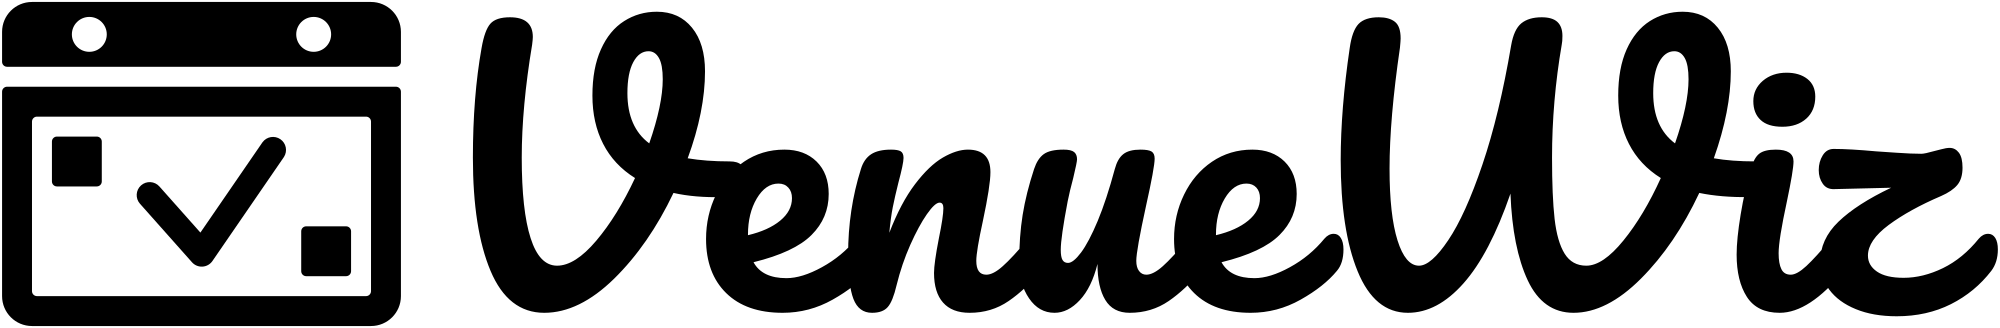
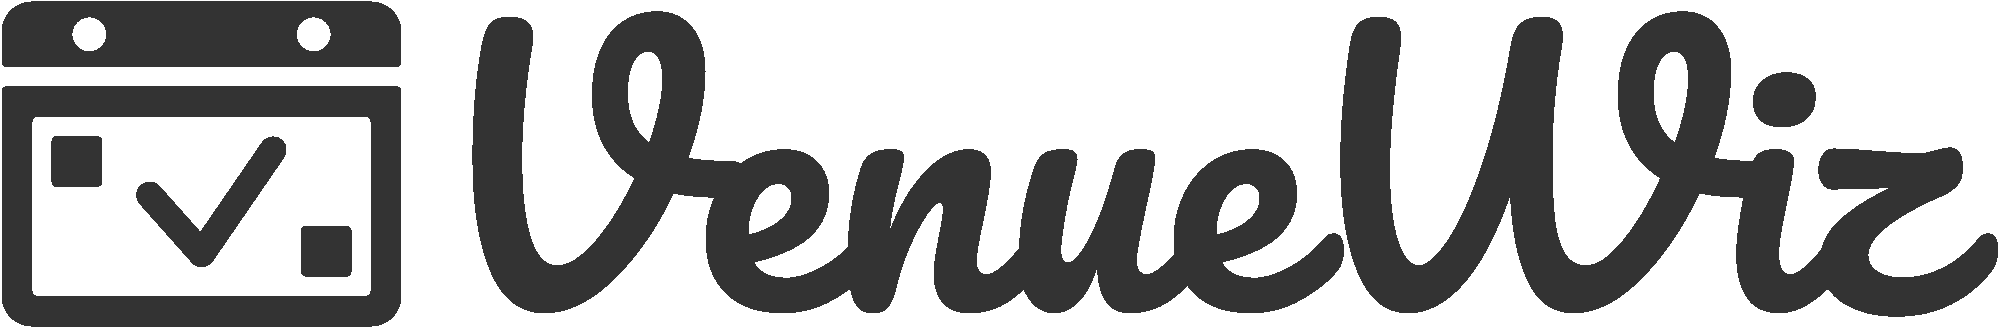
cleaning.. cleaning.. cleaning

diff --git a/client/src/App.css b/client/src/App.css
@@ -16,6 +16,7 @@ body {
   font-family: 'Montserrat', sans-serif;
   font-optical-sizing: auto;
   font-weight: 300;
+  color: #333;
 }
 
 main {
@@ -388,82 +389,16 @@ h1 {
 .venue-info-wrapper-detail button:hover {
   background-color: #3252e0;
 }
-/*.col {
-  margin: 30px;
-}
 
-.card-overlay {
-  background-color: #fdfdff;
-  padding: 20px;
-  border-radius: 10px;
-  box-shadow: 0 4px 8px rgba(0, 0, 0, 0.2);
-  color: #000000;
-  font-family: 'Arimo', sans-serif;
-  margin-left: 10%;
-  margin-right: 10%;
-}
-
-.centered h3 {
-  font-size: 1.5em;
-  margin-bottom: 20px;
-  text-align: center;
-}
-
-.form-wrapper {
-  width: 100%;
-  max-width: 600px;
-}
-
-.input-wrapper {
-  margin-bottom: 15px;
-  display: flex;
-  flex-direction: column;
-}
-
-.input-wrapper label {
-  margin-bottom: 5px;
-  font-size: 1.5em;
-  font-family: 'Arimo', sans-serif;
-  font-weight: bold;
-}
-
-.input-wrapper input,
-.input-wrapper select {
-  padding: 10px;
-  border-radius: 5px;
-  border: 1px solid #ccc;
-  font-size: 1.2em;
-  color: #000;
-}
-
-/*button {
-  background-color: #5271ff;
-  border: none;
-  color: #fff;
-  padding: 10px 20px;
-  border-radius: 5px;
-  font-size: 1em;
-  font-family: 'Arimo', sans-serif;
-  font-weight: bold;
-  margin-top: 10px;
-  margin-left: 50%;
-}
-
-button:disabled {
-  background-color: #aaa;
-}*/
-/*add venue form*/
 .Forms {
   display: flex;
   flex-direction: column;
   justify-content: center;
   align-items: center;
-  /* height: 140vh; */
   font-family: 'Arimo', sans-serif;
   font-optical-sizing: auto;
   font-weight: bold;
   font-style: normal;
-  /* font-size: 10px; */
   color: #5271ff;
   margin: 40px;
 }
@@ -791,18 +726,7 @@ p {
   color: #aab9ff;
 }
 
-.invitation-container {
-  /* display: flex;
-  flex-direction: column;
-  align-items: center;
-  padding-bottom: 20px;
-  height: 100vh; */
-  /* display: flex;
-  justify-content: center;
-  flex-direction: column;
-  align-items: center;
-  text-align: center; */
-}
+
 
 .invitation-container h2 {
   font-family: 'DM Serif Display', serif;
@@ -838,17 +762,16 @@ p {
 }
 
 .event-img-wrapper-detail img {
-  width: 500px; /* Sets the image width to 200px */
-  height: 500px; /* Maintains the aspect ratio */
+  width: 500px; 
+  height: 500px; 
   border-radius: 30px;
-  transition: transform 0.3s ease; /* Smooth transition for hover effect */
+  transition: transform 0.3s ease; 
 }
 .event-card-detail {
   background-color: #fcfcfc00;
 
   padding: 20px;
   border-radius: 10px;
-  /* width: 80%; */
   max-width: 1200px;
 }
 .container-center-event {
@@ -862,8 +785,6 @@ p {
   display: flex;
   flex-wrap: wrap;
   justify-content: center;
-  /* align-items: flex-start;
-  margin-left: 50px;*/
   font-family: 'Arimo', sans-serif;
   font-optical-sizing: auto;
   font-weight: bold;
@@ -884,12 +805,11 @@ p {
   box-sizing: border-box;
   display: flex;
   flex-direction: column;
-  /*align-items: flex-start;*/
   justify-content: center;
   text-align: center;
 }
 .event-card-divs:hover {
-  transform: scale(1.05); /* Scale effect on hover */
+  transform: scale(1.05); 
 }
 .event-title {
   font-size: 1.5em;

diff --git a/client/src/components/Invitation.jsx b/client/src/components/Invitation.jsx
@@ -1,7 +1,6 @@
 import React, { useEffect, useState } from 'react'
 import { useParams } from 'react-router-dom'
 import { useRive } from 'rive-react'
-import RiveComponent from '@rive-app/react-canvas'
 import moment from 'moment'
 import { FontAwesomeIcon } from '@fortawesome/react-fontawesome'
 import { faVolumeUp } from '@fortawesome/free-solid-svg-icons'
@@ -39,7 +38,6 @@ const Invitation = ({ invitationLink }) => {
   const handleSpeech = (text) => {
     let utterance = new SpeechSynthesisUtterance(text)
 
-    // utterance.lang = 'en-US'
 
     setPaused(!paused)
     if (paused) {
@@ -48,7 +46,6 @@ const Invitation = ({ invitationLink }) => {
       speechSynthesis.resume()
     } else {
       rive && rive.pause()
-      console.log('paused')
       speechSynthesis.pause()
     }
   }
@@ -69,7 +66,8 @@ const Invitation = ({ invitationLink }) => {
     <div className="invitation-container">
       <RiveComponent
         className="bear"
-        onMouseEnter={() =>rive && rive.play('success')}
+        onClick={() =>rive && rive.play('success')}
+        onMouseEnter={() =>rive && rive.play('idle')}
         onMouseLeave={() =>rive && rive.pause('success')}
       />
       <button
@@ -91,6 +89,7 @@ const Invitation = ({ invitationLink }) => {
         <>
           <h2>You're Invited to {event.name} Event!</h2>
           <p className="invitation-msg">
+          {`We're thrilled to invite you to ${event.name} on ${event.day}, ${event.date}. The event will be held at ${event.venueId.name}`}
             <br></br>
             Date: {event.day}, {event.date} <br></br>
             Venue: {event.venueId.name} <br></br>

diff --git a/client/src/App.jsx b/client/src/App.jsx
@@ -13,7 +13,6 @@ import VenueBookingForm from './components/user/VenueBookingForm'
 import Login from './components/Auth/Login'
 import Register from './components/Auth/Register'
 import EventDetials from './components/Vendor/EventDetails'
-import BookedEvents from './components/user/BookedEvents'
 import { CheckSession } from './services/Auth'
 import VenueDetails from './components/user/VenueDetails'
 import About from './components/About'
@@ -58,7 +57,6 @@ const App = () => {
           <Route path="/venues" element={<MyVenue user={user} />} />
           <Route path="/venues" element={<MyVenue />} />
           <Route path="/categories/:category_id" element={<ViewVenues />} />
-          {/* should accept user */}
           <Route
             path="/venues/newvenue"
             element={<AddingVenuesForm user={user} />}

diff --git a/client/src/components/Auth/Register.jsx b/client/src/components/Auth/Register.jsx
@@ -16,7 +16,6 @@ const Register = () => {
 
   const handleChange = (e) => {
     setFormValues({ ...formValues, [e.target.name]: e.target.value })
-    console.log(formValues)
   }
 
   const handleSubmit = async (e) => {
@@ -29,7 +28,6 @@ const Register = () => {
         phoneNumber: formValues.phoneNumber,
         vendor: true
       })
-      console.log(res)
     } else {
       let res = await RegisterUser({
         name: formValues.name,
@@ -37,7 +35,6 @@ const Register = () => {
         password: formValues.password,
         phoneNumber: formValues.phoneNumber
       })
-      console.log(res)
     }
 
     setFormValues({

diff --git a/client/src/components/Auth/Login.jsx b/client/src/components/Auth/Login.jsx
@@ -2,6 +2,9 @@ import { useState } from 'react'
 import { useNavigate } from 'react-router-dom'
 import { SignInUser } from '../../services/Auth'
 import { Link } from 'react-router-dom'
+
+
+
 const SignIn = ({ setUser }) => {
   let navigate = useNavigate()
   const [formValues, setFormValues] = useState({ email: '', password: '' })
@@ -51,7 +54,7 @@ const SignIn = ({ setUser }) => {
         </form>
         <p>
           {' '}
-          You dont have an account? <Link to="/register">Click Register</Link>.
+          Don't have an account? <Link to="/register">Register</Link>.
         </p>
       </div>
     </div>

diff --git a/client/index.html b/client/index.html
@@ -6,6 +6,7 @@
     <link rel="preconnect" href="https://fonts.googleapis.com">
     <link rel="preconnect" href="https://fonts.gstatic.com" crossorigin>
     <link href="https://fonts.googleapis.com/css2?family=Bodoni+Moda+SC:ital,opsz,wght@0,6..96,900;1,6..96,900&family=DM+Serif+Display:ital@0;1&display=swap" rel="stylesheet">
+    <link href="https://fonts.googleapis.com/css2?family=Montserrat:ital,wght@0,100..900;1,100..900&display=swap" rel="stylesheet">
     <link rel="icon" href="/favicon.ico" />
     <title>VenueWiz</title>
   </head>

diff --git a/client/src/components/Nav.jsx b/client/src/components/Nav.jsx
@@ -6,11 +6,10 @@ import '../App.css'
 const Nav = ({ user, handleLogOut }) => {
   return (
     <header>
-      <h3 className="title">
-        <img src="../images/title.png" className="title-img" />
-      </h3>
-      <NavLink className="">
-        {/* <h3 className="title"> VenueWiz</h3> */}
+      <NavLink to="/" end className="">
+        <h3 className="title">
+          <img src="../images/title.png" className="title-img" />
+        </h3>
       </NavLink>
 
       <div className="nav-links">

diff --git a/client/src/components/user/ViewVenues.jsx b/client/src/components/user/ViewVenues.jsx
@@ -16,7 +16,6 @@ const ViewVenues = () => {
           `${BASE_URL}/categories/${category_id}`
         )
         setVenues(response.data)
-        console.log(response.data)
       } catch (error) {
         console.log('Error Connecting', error)
       }

diff --git a/client/src/components/user/VenueDetails.jsx b/client/src/components/user/VenueDetails.jsx
@@ -8,7 +8,6 @@ const VenueDetails = ({ user }) => {
   const { category_id, venue_id } = useParams()
 
   useEffect(() => {
-    console.log('user', user);
     const getVenue = async () => {
       try {
         const response = await axios.get(
